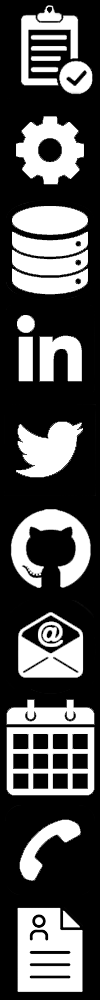
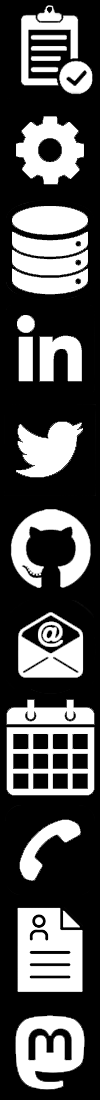
mastodon links

diff --git a/Personal Site/Models/MenuItem.cs b/Personal Site/Models/MenuItem.cs
@@ -1,4 +1,4 @@
 namespace SeanMcBeth.Models
 {
-    public record MenuItem(string Text, string Label, string Target, bool Hide = false);
+    public record MenuItem(string Text, string Label, string Target, bool Hide = false, string? Rel = null);
 }
